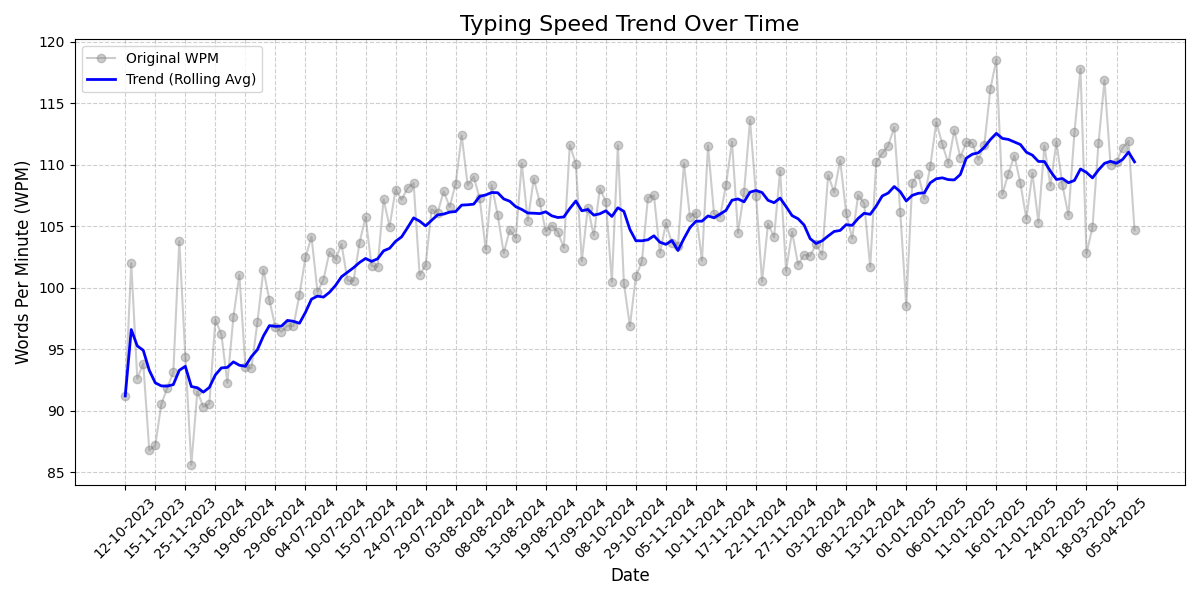
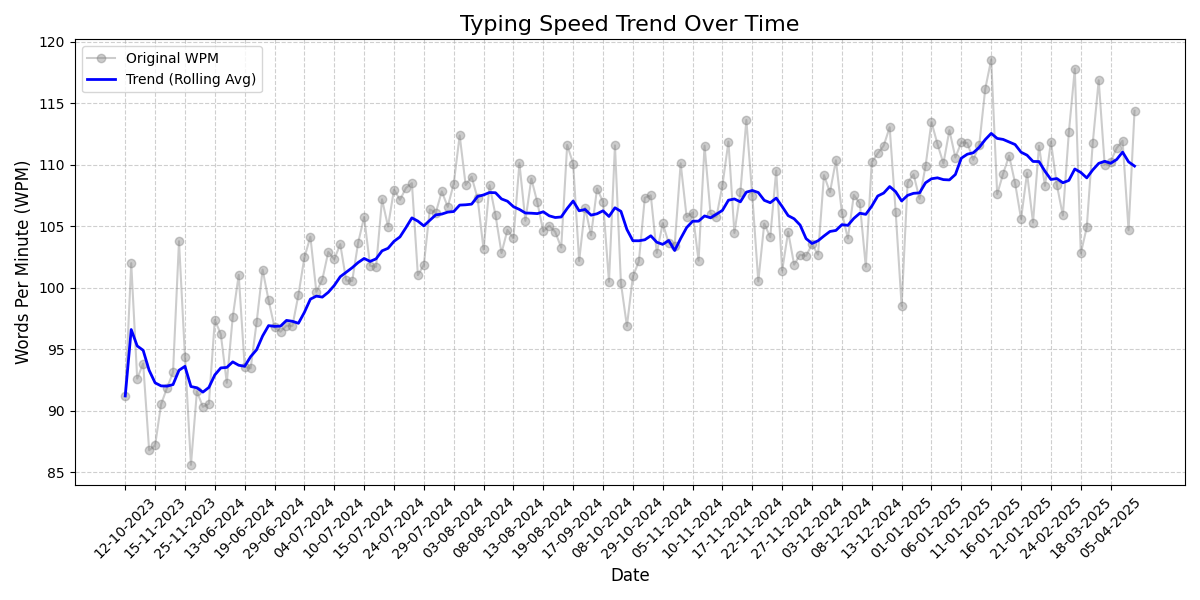
Update README with new stats (10/04/2025 14:40)

Changed region(s): [[0.1542, 0.09, 0.9558, 0.66], [0.185, 0.81, 0.9558, 0.93]]

diff --git a/README.md b/README.md
@@ -4,16 +4,16 @@
 
 
         
-## Typing History Stats (Last Updated: 10/04/2025 14:32)
+## Typing History Stats (Last Updated: 10/04/2025 14:40)
 
 | **Key Stats**               | **Overall Stats**       | **Last 10 Tests Stats**  |
 |--------------------------|-------------------------|--------------------------|
-| **Total Entries**        | 1628           | 10                       |
-| **Average WPM**          | 105.69           | 104.66    |
-| **Average Accuracy**     | 91.81%          | 92.96%   |
-| **Max WPM**              | 130.77               | 115.57        |
+| **Total Entries**        | 1629           | 10                       |
+| **Average WPM**          | 105.70           | 104.54    |
+| **Average Accuracy**     | 91.81%          | 92.92%   |
+| **Max WPM**              | 130.77               | 114.38        |
 | **Min WPM**              | 64.77               | 93.18                        |
-| **Total Duration**       | 13:53:25        | 00:05:00                        |
+| **Total Duration**       | 13:53:55        | 00:05:00                        |
 
 
 ---
@@ -22,16 +22,16 @@
 
 | | WPM | Accuracy | Consistency | Mode | Date |
 | --- | --- | -------- | ----------- | ---- | --------- |
-| 1 | 93.18 | 92.36 | 78.53 | time 30 | 09-04-2025 14:24:00 |
-| 2 | 101.99 | 93.31 | 82.53 | time 30 | 09-04-2025 14:23:26 |
-| 3 | 105.99 | 89.51 | 83.92 | time 30 | 09-04-2025 14:22:37 |
-| 4 | 108.0 | 95.14 | 81.25 | time 30 | 09-04-2025 14:21:55 |
-| 5 | 95.99 | 91.29 | 82.57 | time 30 | 09-04-2025 14:21:16 |
-| 6 | 105.19 | 93.86 | 84.21 | time 30 | 09-04-2025 14:20:36 |
-| 7 | 97.99 | 92.54 | 83.38 | time 30 | 09-04-2025 14:19:54 |
-| 8 | 113.57 | 95.54 | 83.87 | time 30 | 09-04-2025 14:18:03 |
-| 9 | 109.16 | 90.45 | 87.73 | time 30 | 09-04-2025 14:15:47 |
-| 10 | 115.57 | 95.63 | 84.44 | time 30 | 09-04-2025 14:14:58 |
+| 1 | 114.38 | 95.21 | 81.04 | time 30 | 10-04-2025 13:40:09 |
+| 2 | 93.18 | 92.36 | 78.53 | time 30 | 09-04-2025 14:24:00 |
+| 3 | 101.99 | 93.31 | 82.53 | time 30 | 09-04-2025 14:23:26 |
+| 4 | 105.99 | 89.51 | 83.92 | time 30 | 09-04-2025 14:22:37 |
+| 5 | 108.0 | 95.14 | 81.25 | time 30 | 09-04-2025 14:21:55 |
+| 6 | 95.99 | 91.29 | 82.57 | time 30 | 09-04-2025 14:21:16 |
+| 7 | 105.19 | 93.86 | 84.21 | time 30 | 09-04-2025 14:20:36 |
+| 8 | 97.99 | 92.54 | 83.38 | time 30 | 09-04-2025 14:19:54 |
+| 9 | 113.57 | 95.54 | 83.87 | time 30 | 09-04-2025 14:18:03 |
+| 10 | 109.16 | 90.45 | 87.73 | time 30 | 09-04-2025 14:15:47 |
 
 
  --- 
@@ -58,16 +58,16 @@
 
 | | Date | Tests | WPM | Acuracy | Consistency |
 | --- | --- | -------- | ----------- | ---- | --------- |
-| 1 | 2025-04-09 | 10 | 104.66 | 92.96 | 83.24 |
-| 2 | 2025-04-07 | 10 | 111.94 | 93.47 | 83.41 |
-| 3 | 2025-04-06 | 10 | 111.33 | 93.13 | 85.0 |
-| 4 | 2025-04-05 | 10 | 110.25 | 94.66 | 84.92 |
-| 5 | 2025-04-04 | 10 | 109.98 | 94.3 | 85.02 |
-| 6 | 2025-04-02 | 10 | 116.86 | 95.0 | 85.09 |
-| 7 | 2025-03-28 | 10 | 111.74 | 94.06 | 84.71 |
-| 8 | 2025-03-19 | 7 | 104.89 | 93.86 | 82.48 |
-| 9 | 2025-03-18 | 7 | 102.78 | 92.87 | 84.85 |
-| 10 | 2025-03-08 | 11 | 117.79 | 94.78 | 86.55 |
+| 1 | 2025-04-10 | 1 | 114.38 | 95.21 | 81.04 |
+| 2 | 2025-04-09 | 10 | 104.66 | 92.96 | 83.24 |
+| 3 | 2025-04-07 | 10 | 111.94 | 93.47 | 83.41 |
+| 4 | 2025-04-06 | 10 | 111.33 | 93.13 | 85.0 |
+| 5 | 2025-04-05 | 10 | 110.25 | 94.66 | 84.92 |
+| 6 | 2025-04-04 | 10 | 109.98 | 94.3 | 85.02 |
+| 7 | 2025-04-02 | 10 | 116.86 | 95.0 | 85.09 |
+| 8 | 2025-03-28 | 10 | 111.74 | 94.06 | 84.71 |
+| 9 | 2025-03-19 | 7 | 104.89 | 93.86 | 82.48 |
+| 10 | 2025-03-18 | 7 | 102.78 | 92.87 | 84.85 |
 
 
  --- 
